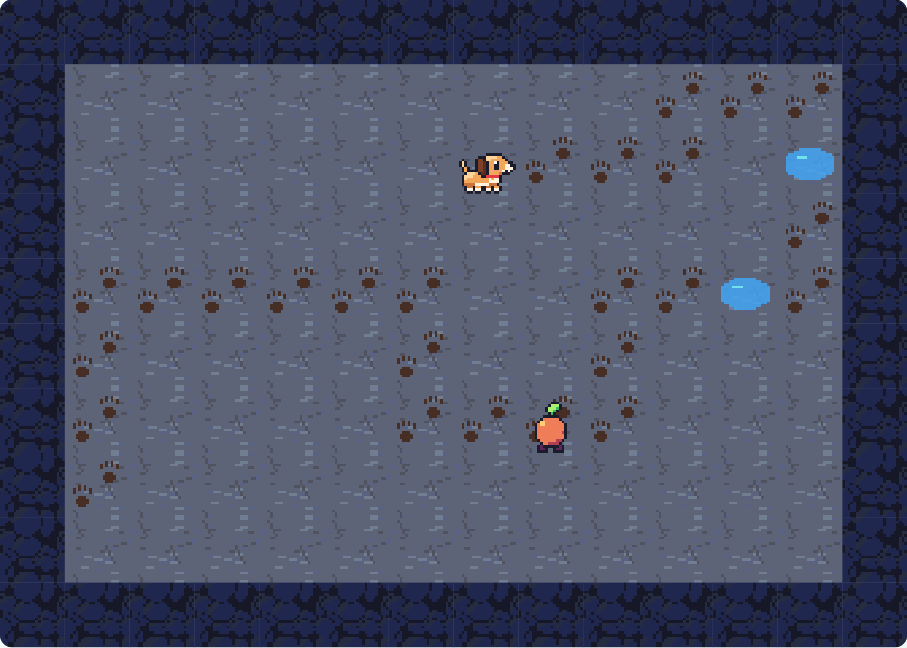
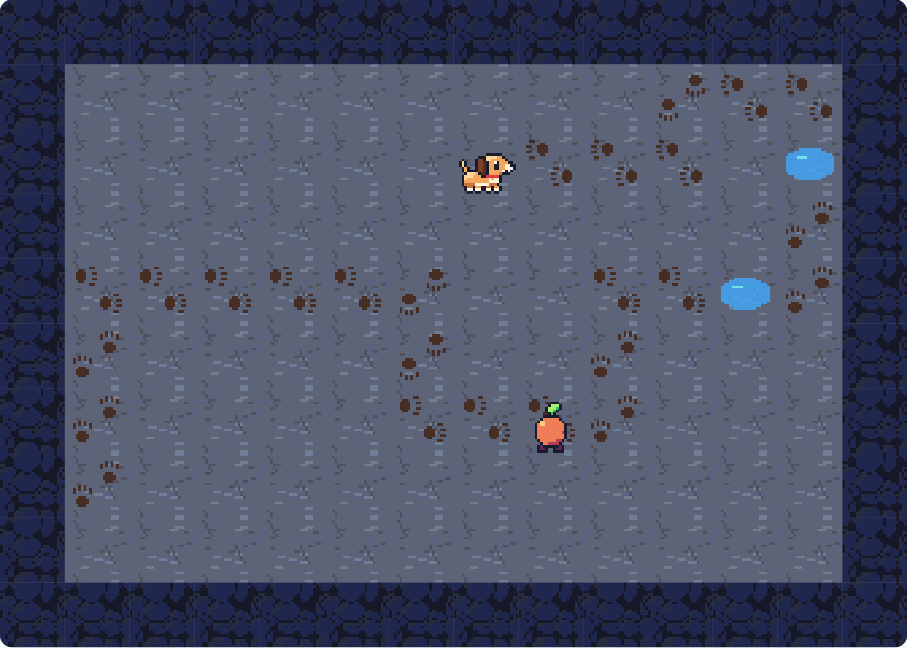
Pip: the paw prints face the way Bello went
The layout gives each print the direction of the next tile on the way to
Bello (puddles on the trail count as part of it); the browser turns the
sprite.

diff --git a/src/static/include/pip_world.js b/src/static/include/pip_world.js
@@ -18,6 +18,8 @@
     }
 
     const key = (p) => p[0] + ',' + p[1];
+    // the paw prints are drawn walking north
+    const TURNS = { north: 0, east: 90, south: 180, west: 270 };
 
     class PipView {
         // box: the element the map goes into; layout: PipWorld#layout;
@@ -58,10 +60,12 @@
             this.world.style.height = size * this.layout.height + 'px';
         }
 
+        // p: [x, y], for paw prints [x, y, the way Bello went]
         tile(name, p) {
             const node = el('div', 'pip-tile pip-' + name, this.world);
             node.style.setProperty('--x', p[0]);
             node.style.setProperty('--y', p[1]);
+            if (p[2]) node.style.setProperty('--turn', TURNS[p[2]] + 'deg');
             return node;
         }
 

diff --git a/src/static/include/default.css b/src/static/include/default.css
@@ -8336,7 +8336,11 @@ html[data-bs-theme="dark"] .bitplane-widget {
 }
 
 .pip-wall { background-image: url(/images/pip/wall.png?v=2); }
-.pip-trail { background-image: url(/images/pip/trail.png?v=2); }
+/* turned the way Bello went (--turn, pip_world.js) */
+.pip-trail {
+    background-image: url(/images/pip/trail.png?v=2);
+    transform: translate(calc(var(--x) * var(--tile)), calc(var(--y) * var(--tile))) rotate(var(--turn, 0deg));
+}
 .pip-puddle { background-image: url(/images/pip/puddle.png?v=2); }
 .pip-lever { background-image: url(/images/pip/lever-off.png?v=2); }
 .pip-lever.pip-pulled { background-image: url(/images/pip/lever-on.png?v=2); }

diff --git a/src/ruby/include/pip_world.rb b/src/ruby/include/pip_world.rb
@@ -99,9 +99,36 @@ class PipWorld
             :width => @width, :height => @height,
             :walls => @walls.keys, :stones => @start_stones, :lamp => @lamp, :bello => @bello,
             :levers => @levers.keys, :gates => @gates.keys,
-            :trail => @floor_marks.select { |_, v| v == :trail }.keys,
+            :trail => trail_directions,
             :puddles => @floor_marks.select { |_, v| v == :puddle }.keys,
         }
+    end
+
+    # The paw prints with the way Bello went: [x, y, facing], facing towards
+    # the next tile of the trail on the way to Bello (puddles on the trail
+    # count as part of it). Prints that lead to no Bello keep facing north.
+    def trail_directions
+        prints = @floor_marks.select { |_, v| v == :trail }.keys
+        distance = {}
+        if @bello
+            on_trail = ->(p) { @floor_marks.key?(p) }
+            distance[@bello] = 0
+            queue = [@bello]
+            until queue.empty?
+                x, y = queue.shift
+                DELTA.each_value do |dx, dy|
+                    n = [x + dx, y + dy]
+                    next if distance.key?(n) || !on_trail.call(n)
+
+                    distance[n] = distance[[x, y]] + 1
+                    queue << n
+                end
+            end
+        end
+        prints.map do |x, y|
+            toward = DELTA.find { |_, (dx, dy)| (d = distance[[x + dx, y + dy]]) && distance[[x, y]] && d < distance[[x, y]] }
+            [x, y, toward ? toward.first : 'north']
+        end
     end
 
     def stones_left

diff --git a/src/ruby/test/pip_world_test.rb b/src/ruby/test/pip_world_test.rb
@@ -148,5 +148,11 @@ class PipWorldTest < Minitest::Test
         assert_equal 1, w.moves
         assert_equal [2, 1], [w.pip[:x], w.pip[:y]]
     end
+
+    # the prints point the way to Bello, round the corner and across a puddle
+    def test_paw_prints_point_the_way_to_bello
+        w = PipWorld.new("#######\n#Pp~p.#\n####pB#\n#######")
+        assert_equal [[2, 1, 'east'], [4, 1, 'south'], [4, 2, 'east']], w.layout[:trail].sort
+    end
 end
 
